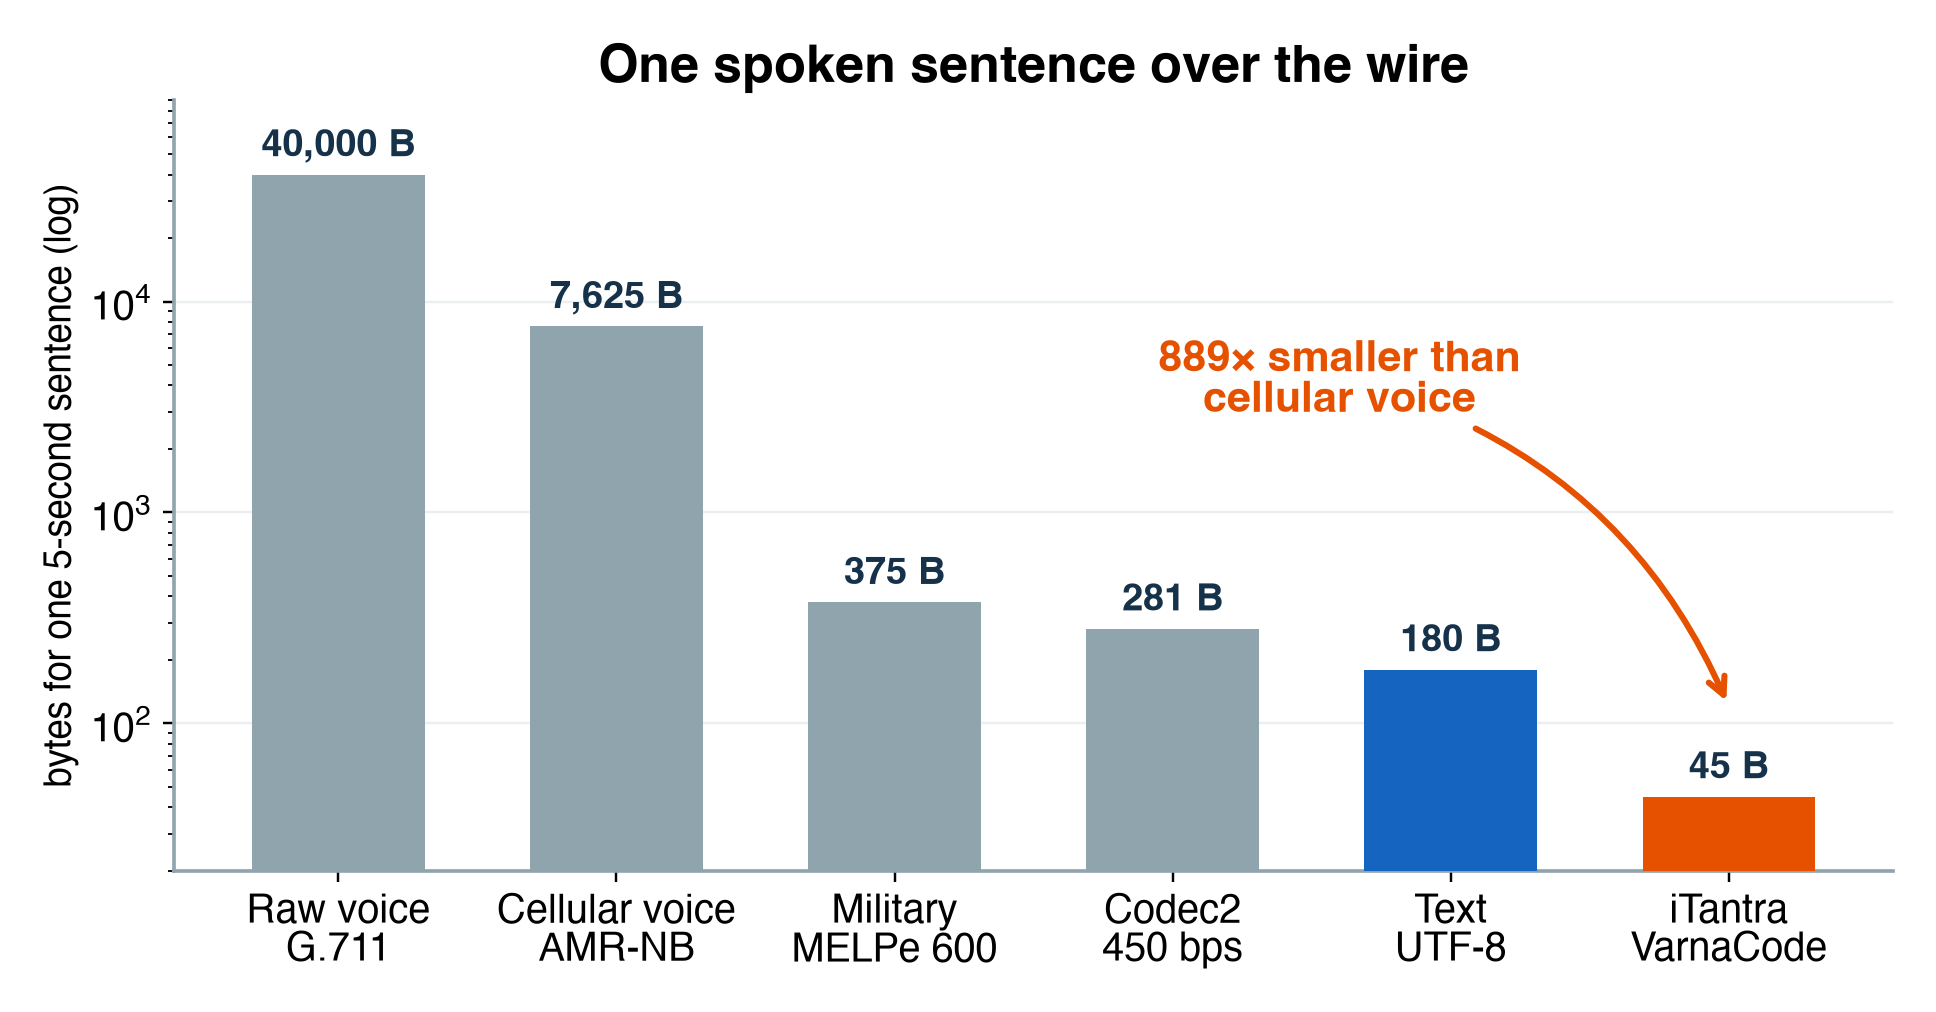
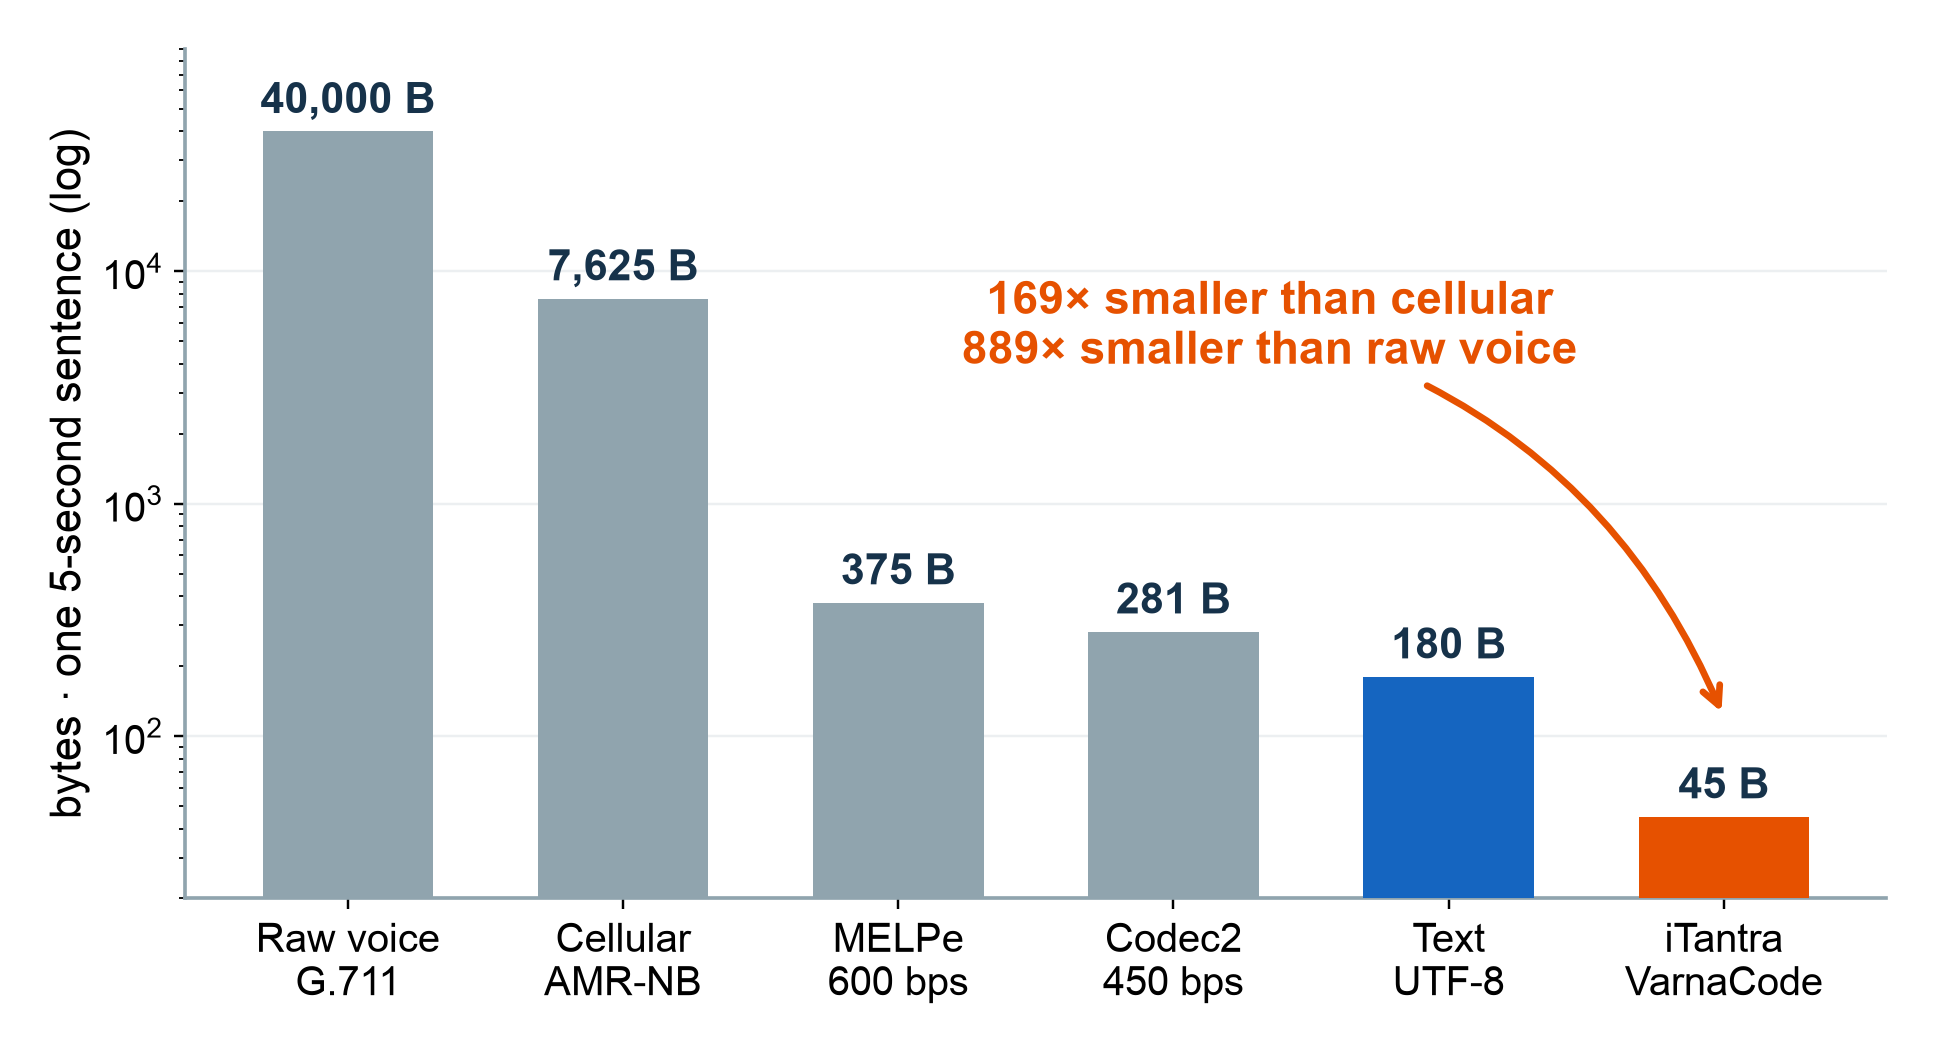
docs: critique fixes — delabeled 19px architecture, corrected 169x/889x attribution, bigger chart+card fonts, no emoji

diff --git a/docs/assets/architecture.mmd.html b/docs/assets/architecture.mmd.html
@@ -1,43 +1,39 @@
 <!doctype html><html><head><meta charset="utf-8"><style>
 body{margin:0;background:#fff}
-.mermaid, .mermaid *{font-family:Helvetica,Arial,sans-serif !important}
+.mermaid, .mermaid *{font-family:Arial,Helvetica,sans-serif !important}
 </style></head><body>
 <pre class="mermaid">
 %%{init: {"theme":"base","themeVariables":{
-  "fontFamily":"Helvetica, Arial, sans-serif","fontSize":"15px",
+  "fontFamily":"Arial, Helvetica, sans-serif","fontSize":"19px",
   "primaryColor":"#ffffff","primaryTextColor":"#16324a","primaryBorderColor":"#90a4ae",
   "lineColor":"#455a64","clusterBkg":"#fafcfe","clusterBorder":"#b0bec5","edgeLabelBackground":"#ffffff"},
-  "flowchart":{"nodeSpacing":16,"rankSpacing":30,"curve":"basis","useMaxWidth":false,"htmlLabels":true,"padding":14}}}%%
+  "flowchart":{"nodeSpacing":22,"rankSpacing":30,"curve":"basis","useMaxWidth":false,"htmlLabels":true,"padding":14}}}%%
 flowchart TB
-  subgraph S["📱 SENDER PHONE · push-to-talk<br/>&nbsp;"]
+  subgraph S["SENDER PHONE — push-to-talk<br/>&nbsp;<br/>&nbsp;"]
     direction LR
-    M["🎙 <b>Mic</b><br/>Oboe · 16 kHz"] --> V["<b>Silero VAD</b><br/>pauses → sentences"]
-    V --> ST["<b>STT · IndicConformer int8</b><br/>sherpa-onnx · 10 languages"]
-    ST --> G["<b>Confidence gate</b><br/>+ text normalize"]
-    G --> VC["<b>VarnaCode + frame</b><br/>~45 bytes / sentence"]
+    M["<b>Mic · 16 kHz</b>"] --> V["<b>Silero VAD → sentences</b>"]
+    V --> ST["<b>STT · IndicConformer int8 · 10 langs</b>"]
+    ST --> VC["<b>VarnaCode → 45-byte frame</b>"]
   end
-  subgraph L["🔗 LOW-BITRATE LINK — one frame, any bearer<br/>&nbsp;"]
+  subgraph L["LOW-BITRATE LINK — one frame, any bearer<br/>&nbsp;<br/>&nbsp;"]
     direction LR
-    W["<b>Wi-Fi hotspot</b><br/>NSD/mDNS + TCP"] ~~~ B["<b>Bluetooth RFCOMM</b><br/>zero infrastructure"] ~~~ LO["<b>ESP32 LoRa · IN865</b><br/>1–10 km · ₹1,650"]
+    W["<b>Wi-Fi · NSD + TCP</b>"] ~~~ B["<b>Bluetooth RFCOMM</b>"] ~~~ LO["<b>LoRa IN865 · 1–10 km</b>"]
   end
-  subgraph R["📱 RECEIVER PHONE<br/>&nbsp;"]
+  subgraph R["RECEIVER PHONE<br/>&nbsp;<br/>&nbsp;"]
     direction LR
-    FD["<b>Frame decode</b><br/>CRC-16 · store-&-fwd"] --> VD["<b>VarnaCode⁻¹</b><br/>lang from header"]
-    VD --> T["<b>TTS · FastPitch / Piper</b><br/>sentence-streamed"]
-    T --> P["🔊 <b>Playback</b><br/>+ transcript"]
-    P --> AL["⚠ <b>ALERT</b><br/>max volume · non-stop"]
+    FD["<b>Decode · CRC-16</b>"] --> VD["<b>VarnaCode⁻¹</b>"] --> T["<b>TTS · FastPitch / Piper</b>"] --> AL["<b>Playback · ALERT max-volume</b>"]
   end
   S == "45-byte frames" ==> L
   L == "any bearer" ==> R
-  classDef blue fill:#eef4fb,stroke:#1565c0,stroke-width:2px
-  classDef green fill:#f0f9f0,stroke:#2e7d32,stroke-width:2px
-  classDef orange fill:#fdf3ec,stroke:#e65100,stroke-width:2px
-  classDef red fill:#fdecea,stroke:#c62828,stroke-width:2.5px,color:#b71c1c
-  classDef gold fill:#fffdf2,stroke:#f9a825,stroke-width:2px
-  class M,V,ST,G,VC blue
+  classDef blue fill:#eef4fb,stroke:#1565c0,stroke-width:2.5px
+  classDef green fill:#f0f9f0,stroke:#2e7d32,stroke-width:2.5px
+  classDef orange fill:#fdf3ec,stroke:#e65100,stroke-width:2.5px
+  classDef red fill:#fdecea,stroke:#c62828,stroke-width:3px,color:#b71c1c
+  classDef gold fill:#fffdf2,stroke:#f9a825,stroke-width:2.5px
+  class M,V,ST,VC blue
   class W,B green
   class LO gold
-  class FD,VD,T,P orange
+  class FD,VD,T orange
   class AL red
 </pre>
 <script type="module">

diff --git a/docs/assets/pipeline-mini.mmd.html b/docs/assets/pipeline-mini.mmd.html
@@ -1,13 +1,13 @@
-<!doctype html><html><head><meta charset="utf-8"><style>body{margin:0;background:#fff}.mermaid, .mermaid *{font-family:Helvetica,Arial,sans-serif !important}</style></head><body>
+<!doctype html><html><head><meta charset="utf-8"><style>body{margin:0;background:#fff}.mermaid, .mermaid *{font-family:Arial,Helvetica,sans-serif !important}</style></head><body>
 <pre class="mermaid">
 %%{init: {"theme":"base","themeVariables":{
-  "fontFamily":"Helvetica, Arial, sans-serif","fontSize":"17px",
+  "fontFamily":"Arial, Helvetica, sans-serif","fontSize":"17px",
   "primaryColor":"#ffffff","primaryTextColor":"#16324a","primaryBorderColor":"#90a4ae","lineColor":"#455a64"},
   "flowchart":{"nodeSpacing":30,"rankSpacing":46,"curve":"basis","useMaxWidth":false,"htmlLabels":true,"padding":10}}}%%
 flowchart LR
-  A["🎙 <b>SPEAK</b><br/>push-to-talk<br/>any of 10 languages"] ==> B["⟨अ⟩ <b>ON-DEVICE STT</b><br/>offline speech → text<br/>~45 B / sentence"]
-  B ==> C["📡 <b>ANY LINK</b><br/>Wi-Fi · Bluetooth · LoRa<br/>works with towers down"]
-  C ==> D["🔊 <b>HEAR</b><br/>natural TTS voice<br/>alerts at max volume"]
+  A["<b>SPEAK</b><br/>push-to-talk<br/>any of 10 languages"] ==> B["<b>ON-DEVICE STT</b><br/>offline speech → text<br/>~45 B / sentence"]
+  B ==> C["<b>ANY LINK</b><br/>Wi-Fi · Bluetooth · LoRa<br/>works with towers down"]
+  C ==> D["<b>HEAR</b><br/>natural TTS voice<br/>alerts at max volume"]
   classDef blue fill:#eef4fb,stroke:#1565c0,stroke-width:2.5px
   classDef green fill:#f0f9f0,stroke:#2e7d32,stroke-width:2.5px
   classDef orange fill:#fdf3ec,stroke:#e65100,stroke-width:2.5px
